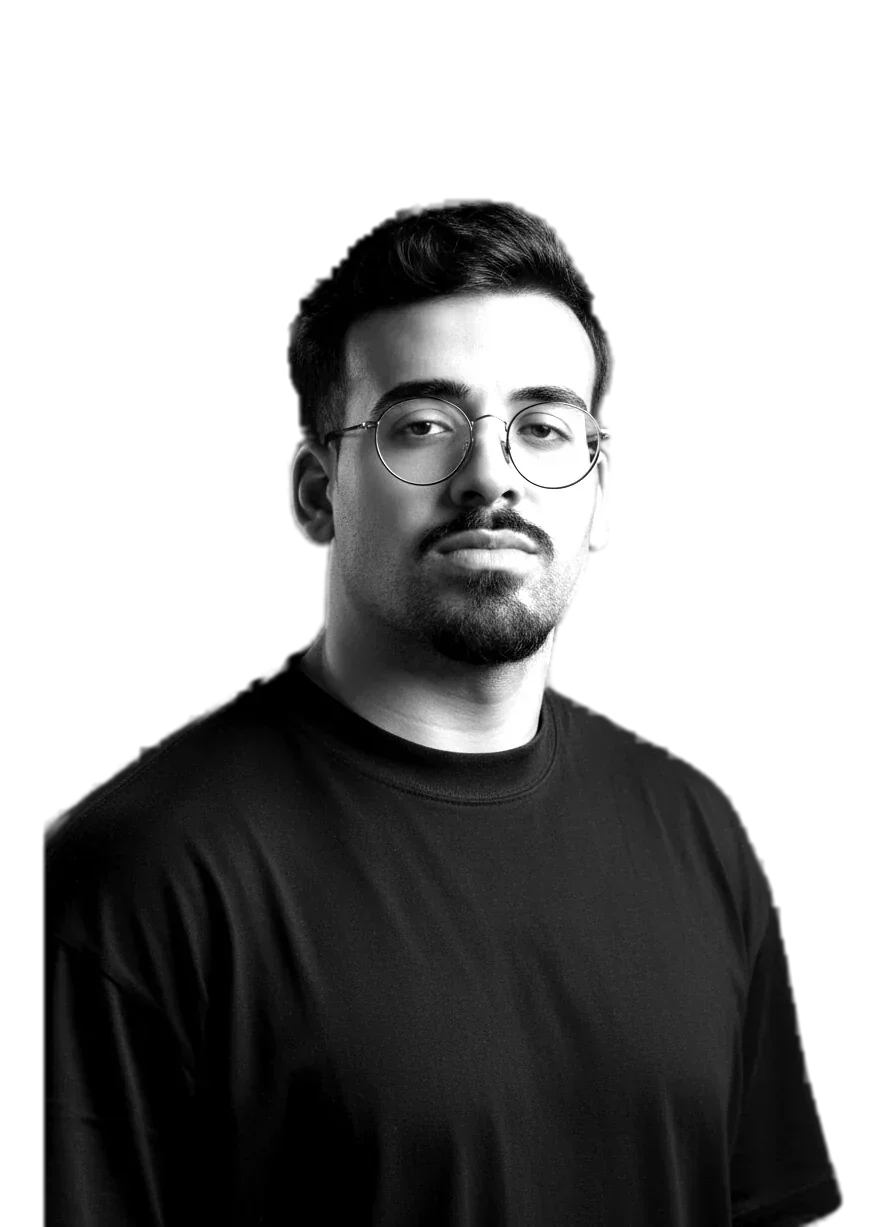
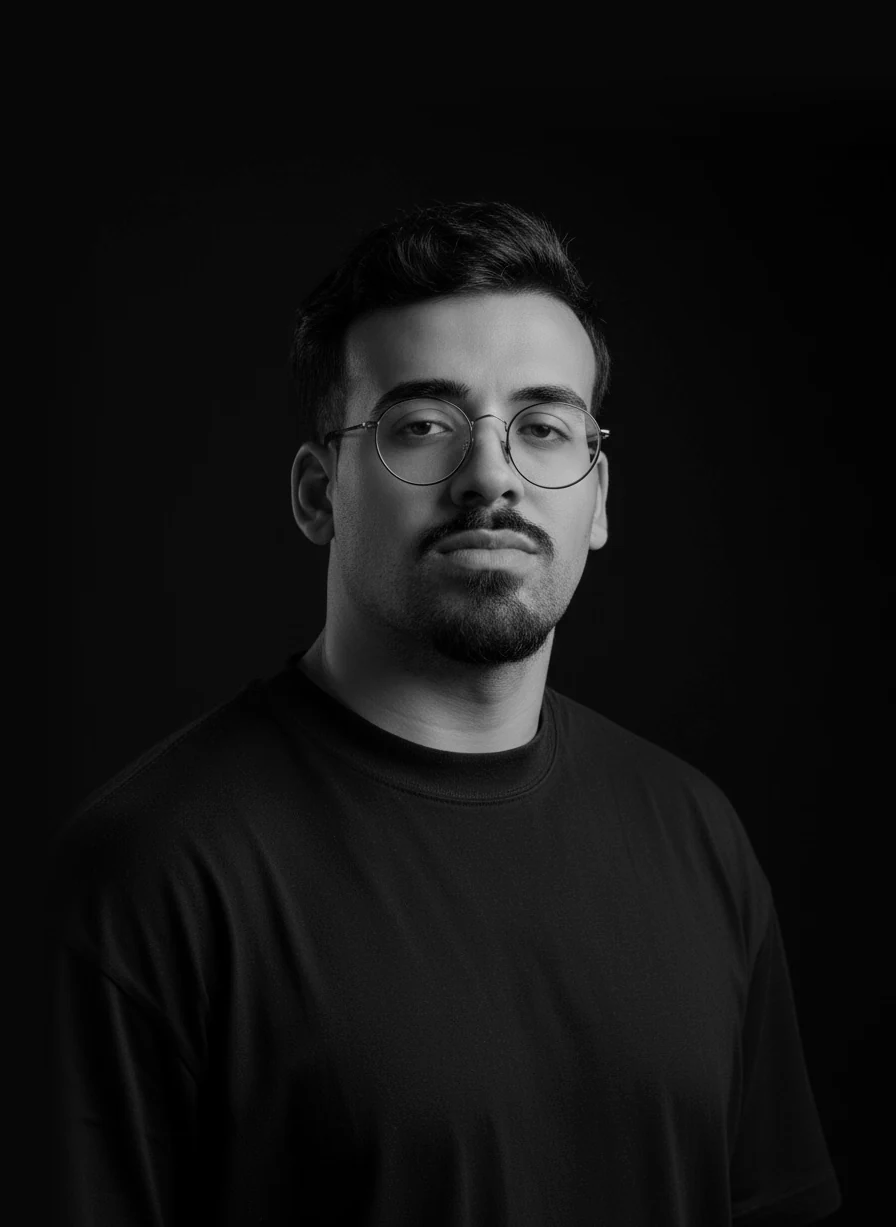
Mantém o fundo preto da foto e escurece a hero
A foto não é mais recortada: o fundo preto é estendido e a hero passa a
usar o mesmo preto, com textos claros e placa em vidro roxo.

diff --git a/index.html b/index.html
@@ -85,7 +85,7 @@
   .mark,.h2,.svc h3,.tier b,.big-since,.step-n,.foot-big{font-stretch:66%;font-weight:800}
 
   /* ---------- hero (artboard de 1440u; u = 1px no artboard) ---------- */
-  .hx{--u:min(calc(100vw / 1440), 1.333px);--paper:#dcd3ee;--paper-2:#cbc0e2;--hink:#130e1d;--hgrey:#5b5370;
+  .hx{--u:min(calc(100vw / 1440), 1.333px);--paper:#070707;--paper-2:#18151f;--hink:#f5f3fa;--hgrey:#a8a0bb;
     position:relative;background:var(--paper);color:var(--hink);overflow:hidden;font-size:calc(var(--u) * 14)}
   .hx-art{position:relative;width:calc(var(--u) * 1440);height:calc(var(--u) * 938);margin:0 auto}
   .hx-art > *{position:absolute;z-index:2}
@@ -93,12 +93,11 @@
 
   .hx-photo{left:calc(var(--u) * 338);top:calc(var(--u) * -86);width:calc(var(--u) * 764);height:calc(var(--u) * 1024)}
   .hx-art > .hx-photo{z-index:1}
-  /* fundo da cor do papel dentro da caixa: a foto P&B herda o tom lilás pelo modo luminosity */
-  .hx-ph{position:absolute;inset:0;background:var(--paper);isolation:isolate}
-  .hx-photo img{width:100%;height:100%;object-fit:cover;object-position:50% 0;mix-blend-mode:luminosity;
+  .hx-ph{position:absolute;inset:0}
+  .hx-photo img{width:100%;height:100%;object-fit:cover;object-position:50% 0;
     -webkit-mask-image:linear-gradient(90deg,transparent,#000 6%,#000 94%,transparent);mask-image:linear-gradient(90deg,transparent,#000 6%,#000 94%,transparent)}
   .hx-plate{position:absolute;left:calc(var(--u) * 200);top:calc(var(--u) * 690);width:calc(var(--u) * 364);height:calc(var(--u) * 73);display:flex;align-items:center;gap:calc(var(--u) * 14);padding:0 calc(var(--u) * 20);
-    border-radius:calc(var(--u) * 12);background:rgba(19,14,29,.55);backdrop-filter:blur(14px) saturate(140%);-webkit-backdrop-filter:blur(14px) saturate(140%);border:1px solid rgba(255,255,255,.14);color:#fff;box-shadow:inset 0 1px 0 rgba(255,255,255,.12)}
+    border-radius:calc(var(--u) * 12);background:rgba(139,44,255,.32);backdrop-filter:blur(14px) saturate(140%);-webkit-backdrop-filter:blur(14px) saturate(140%);border:1px solid rgba(255,255,255,.22);color:#fff;box-shadow:inset 0 1px 0 rgba(255,255,255,.12)}
   .hx-plate svg{width:calc(var(--u) * 34);height:calc(var(--u) * 30);flex:none}
   .hx-plate b{font-size:calc(var(--u) * 21);letter-spacing:.02em;font-stretch:118%;font-weight:700;white-space:nowrap}
   .hx-plate .menu{margin-left:auto;display:grid;gap:calc(var(--u) * 6)}
@@ -108,17 +107,17 @@
   .hx-logos span{display:flex;align-items:center;gap:calc(var(--u) * 7)}
   .hx-logos i{font-size:calc(var(--u) * 16);color:var(--lilac)}
 
-  .hx-nav{left:calc(var(--u) * 57);top:calc(var(--u) * 61);height:calc(var(--u) * 48);display:flex;align-items:center;padding:calc(var(--u) * 5);border-radius:999px;background:#fff;box-shadow:0 8px 24px -16px rgba(19,14,29,.5)}
+  .hx-nav{left:calc(var(--u) * 57);top:calc(var(--u) * 61);height:calc(var(--u) * 48);display:flex;align-items:center;padding:calc(var(--u) * 5);border-radius:999px;background:#fff;color:#0b0a0e;box-shadow:0 8px 24px -16px rgba(0,0,0,.6)}
   .hx-nav a{position:relative;z-index:1;height:100%;display:grid;place-items:center;padding:0 calc(var(--u) * 18);border-radius:999px;font-size:calc(var(--u) * 14);font-weight:600;transition:color 250ms ease}
   .hx-nav a.on{color:#fff}
   .hx-pill{position:absolute;z-index:0;top:calc(var(--u) * 5);bottom:calc(var(--u) * 5);left:0;width:0;border-radius:999px;background:var(--purple);transition:transform 400ms var(--ease-out),width 400ms var(--ease-out)}
   .hx-date{left:calc(var(--u) * 1038);top:calc(var(--u) * 66);font-size:calc(var(--u) * 13);line-height:1.35;font-weight:600}
   .hx-date span{display:block;color:var(--hgrey);font-weight:500}
-  .hbtn{display:inline-flex;align-items:center;justify-content:center;gap:calc(var(--u) * 8);border-radius:999px;background:var(--hink);color:#fff;font-weight:700;font-size:calc(var(--u) * 14);white-space:nowrap;
+  .hbtn{display:inline-flex;align-items:center;justify-content:center;gap:calc(var(--u) * 8);border-radius:999px;background:#fff;color:#0b0a0e;font-weight:700;font-size:calc(var(--u) * 14);white-space:nowrap;
     touch-action:manipulation;user-select:none;-webkit-user-select:none;transition:transform 200ms var(--ease-out),background-color 200ms ease}
   .hbtn i{font-size:1.15em}
   .hbtn:active{transform:scale(.97)}
-  @media (hover:hover) and (pointer:fine){.hbtn:hover{transform:translateY(-1px);background:var(--purple)}}
+  @media (hover:hover) and (pointer:fine){.hbtn:hover{transform:translateY(-1px);background:var(--purple);color:#fff}}
   .hx-contact{left:calc(var(--u) * 1237);top:calc(var(--u) * 63);width:calc(var(--u) * 146);height:calc(var(--u) * 46)}
 
   .hx-title{left:calc(var(--u) * 57);top:calc(var(--u) * 246);margin:0;font-size:calc(var(--u) * 90);line-height:.86;letter-spacing:-.06em;text-transform:uppercase}
@@ -130,19 +129,19 @@
   .hx-about{left:calc(var(--u) * 57);top:calc(var(--u) * 458);width:calc(var(--u) * 290)}
   .hx-about .lbl{display:flex;align-items:center;gap:calc(var(--u) * 8);font-size:calc(var(--u) * 13);font-weight:700;letter-spacing:.06em}
   .hx-about .lbl::before{content:"";width:calc(var(--u) * 8);height:calc(var(--u) * 8);border-radius:50%;background:var(--purple)}
-  .hx-about p{margin-top:calc(var(--u) * 14);font-size:calc(var(--u) * 15);line-height:1.45;font-weight:500;color:#2c2540}
+  .hx-about p{margin-top:calc(var(--u) * 14);font-size:calc(var(--u) * 15);line-height:1.45;font-weight:500;color:#d4cde2}
   .hx-cta{left:calc(var(--u) * 57);top:calc(var(--u) * 584);height:calc(var(--u) * 48);padding:0 calc(var(--u) * 6) 0 calc(var(--u) * 22)}
   .hx-cta .ic{display:grid;place-items:center;width:calc(var(--u) * 36);height:calc(var(--u) * 36);border-radius:50%;background:var(--wa);color:#03200e}
 
   .hx-stats{left:calc(var(--u) * 57);top:calc(var(--u) * 693);width:calc(var(--u) * 341);height:calc(var(--u) * 208);padding:calc(var(--u) * 6);border-radius:calc(var(--u) * 16);background:var(--paper-2);display:grid;grid-template-columns:1fr 1fr;gap:calc(var(--u) * 6)}
   .hx-card{position:relative;border-radius:calc(var(--u) * 11);overflow:hidden;padding:calc(var(--u) * 12);display:flex;flex-direction:column}
-  .hx-card.dark{background:var(--hink);color:#fff}
+  .hx-card.dark{background:#110f16;color:#fff;box-shadow:inset 0 0 0 1px rgba(255,255,255,.07)}
   .hx-card b.num{font-size:calc(var(--u) * 34);line-height:1;font-stretch:104%;font-weight:700;letter-spacing:-.04em}
   .hx-card small{display:block;margin-top:calc(var(--u) * 3);font-size:calc(var(--u) * 11);font-weight:600;opacity:.8;line-height:1.3}
   .hx-marks{display:grid;grid-template-columns:1fr 1fr;gap:calc(var(--u) * 5) calc(var(--u) * 6);margin-top:calc(var(--u) * 12);font-size:calc(var(--u) * 10.5);font-weight:600;color:#cfc7e0}
   .hx-marks span{display:flex;align-items:center;gap:calc(var(--u) * 4)}
   .hx-marks i{color:var(--purple-2);font-size:calc(var(--u) * 12)}
-  .hx-bar{margin-top:auto;display:flex;align-items:center;justify-content:space-between;height:calc(var(--u) * 30);padding:0 calc(var(--u) * 6) 0 calc(var(--u) * 10);border-radius:calc(var(--u) * 7);background:#fff;color:var(--hink);font-size:calc(var(--u) * 11);font-weight:700;transition:background-color 200ms ease}
+  .hx-bar{margin-top:auto;display:flex;align-items:center;justify-content:space-between;height:calc(var(--u) * 30);padding:0 calc(var(--u) * 6) 0 calc(var(--u) * 10);border-radius:calc(var(--u) * 7);background:#fff;color:#0b0a0e;font-size:calc(var(--u) * 11);font-weight:700;transition:background-color 200ms ease}
   @media (hover:hover) and (pointer:fine){.hx-bar:hover{background:var(--lilac)}}
   .hx-card.photo{color:#fff;justify-content:space-between}
   .hx-card.photo img{position:absolute;inset:0;width:100%;height:100%;object-fit:cover;filter:grayscale(1)}
@@ -152,7 +151,7 @@
   .hx-card .br{text-align:right}
 
   .hx-tag{right:calc(var(--u) * 57);top:calc(var(--u) * 258);display:flex;align-items:center;gap:calc(var(--u) * 10);height:calc(var(--u) * 44);padding:0 calc(var(--u) * 16) 0 calc(var(--u) * 6);border-radius:999px;
-    background:rgba(255,255,255,.45);backdrop-filter:blur(12px);-webkit-backdrop-filter:blur(12px);border:1px solid rgba(255,255,255,.6);font-weight:700;font-size:calc(var(--u) * 14)}
+    background:rgba(255,255,255,.07);backdrop-filter:blur(12px);-webkit-backdrop-filter:blur(12px);border:1px solid rgba(255,255,255,.16);font-weight:700;font-size:calc(var(--u) * 14)}
   .hx-tag .chk{display:grid;place-items:center;width:calc(var(--u) * 32);height:calc(var(--u) * 32);border-radius:50%;background:var(--purple);color:#fff;font-size:calc(var(--u) * 15)}
   .hx-avail{right:calc(var(--u) * 57);top:calc(var(--u) * 430);text-align:right;font-size:calc(var(--u) * 26);line-height:1.15;font-weight:700;letter-spacing:-.02em}
   .hx-avail span{display:inline-flex;align-items:center;gap:calc(var(--u) * 8);color:var(--hgrey)}
@@ -171,7 +170,7 @@
   @media (hover:hover) and (pointer:fine){.hx-out:hover .hx-q img{transform:scale(1.65)}.hx-out:hover .go{transform:rotate(45deg)}}
 
   /* barra preta */
-  .hx-strip{background:#000;color:#fff;border-bottom:1px solid rgba(255,255,255,.18)}
+  .hx-strip{background:#000;color:#fff;border-block:1px solid rgba(255,255,255,.14)}
   .hx-strip .in{--u:min(calc(100vw / 1440), 1.333px);max-width:calc(var(--u) * 1440);height:calc(var(--u) * 111);min-height:64px;margin:0 auto;padding:0 calc(var(--u) * 57);display:flex;align-items:center;justify-content:space-between;
     font-family:var(--display);font-stretch:118%;font-weight:600;font-size:max(11px, calc(var(--u) * 14));letter-spacing:.06em}
   .hx-strip .g{color:var(--purple-2)}
@@ -419,7 +418,7 @@
       <a class="hbtn hx-cta hx-fx" style="--d:4" href="https://wa.me/5521960194636?text=Ol%C3%A1!%20Quero%20um%20or%C3%A7amento." target="_blank" rel="noopener">Chamar no WhatsApp<span class="ic"><i class="ph-fill ph-whatsapp-logo" aria-hidden="true"></i></span></a>
 
       <div class="hx-photo">
-        <div class="hx-ph"><img src="img/teles-designr.webp" width="896" height="1227" fetchpriority="high" alt="Lucas, da Teles Designr, de óculos e camiseta preta"></div>
+        <div class="hx-ph"><img src="img/teles-designr.webp" width="896" height="1227" fetchpriority="high" alt="Lucas, da Teles Designr, de óculos e camiseta preta, em fundo preto"></div>
         <div class="hx-plate hx-fx" style="--d:6">
           <svg viewBox="0 0 34 30" aria-hidden="true"><path d="M0 30 L13 4 L20 18 Z" fill="#8b2cff"/><path d="M15 30 L26 8 L34 30 Z" fill="#fff"/></svg>
           <b class="wide">TELES DESIGNR</b>
